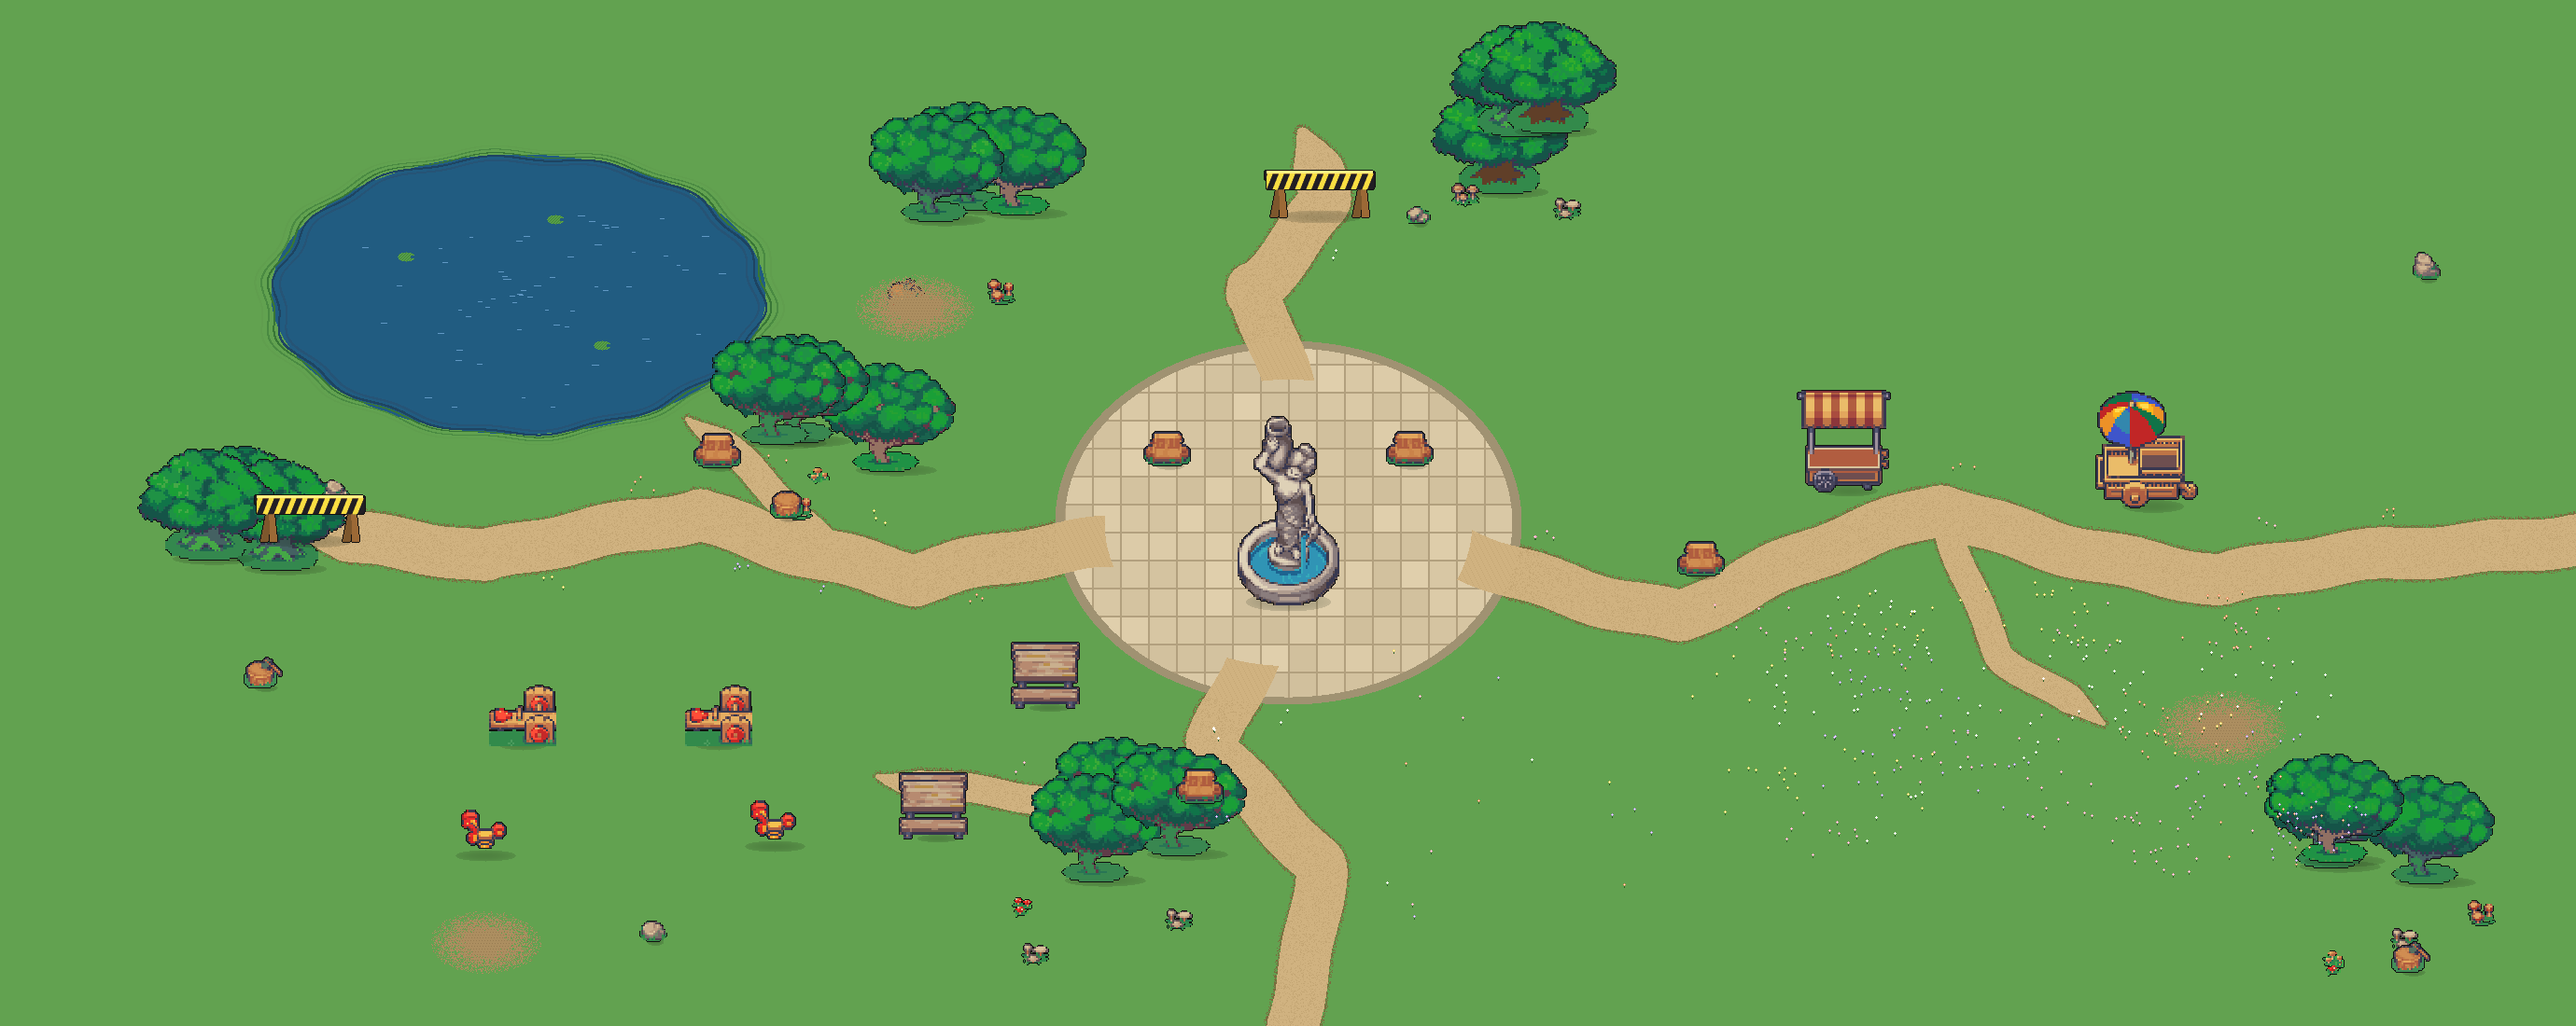
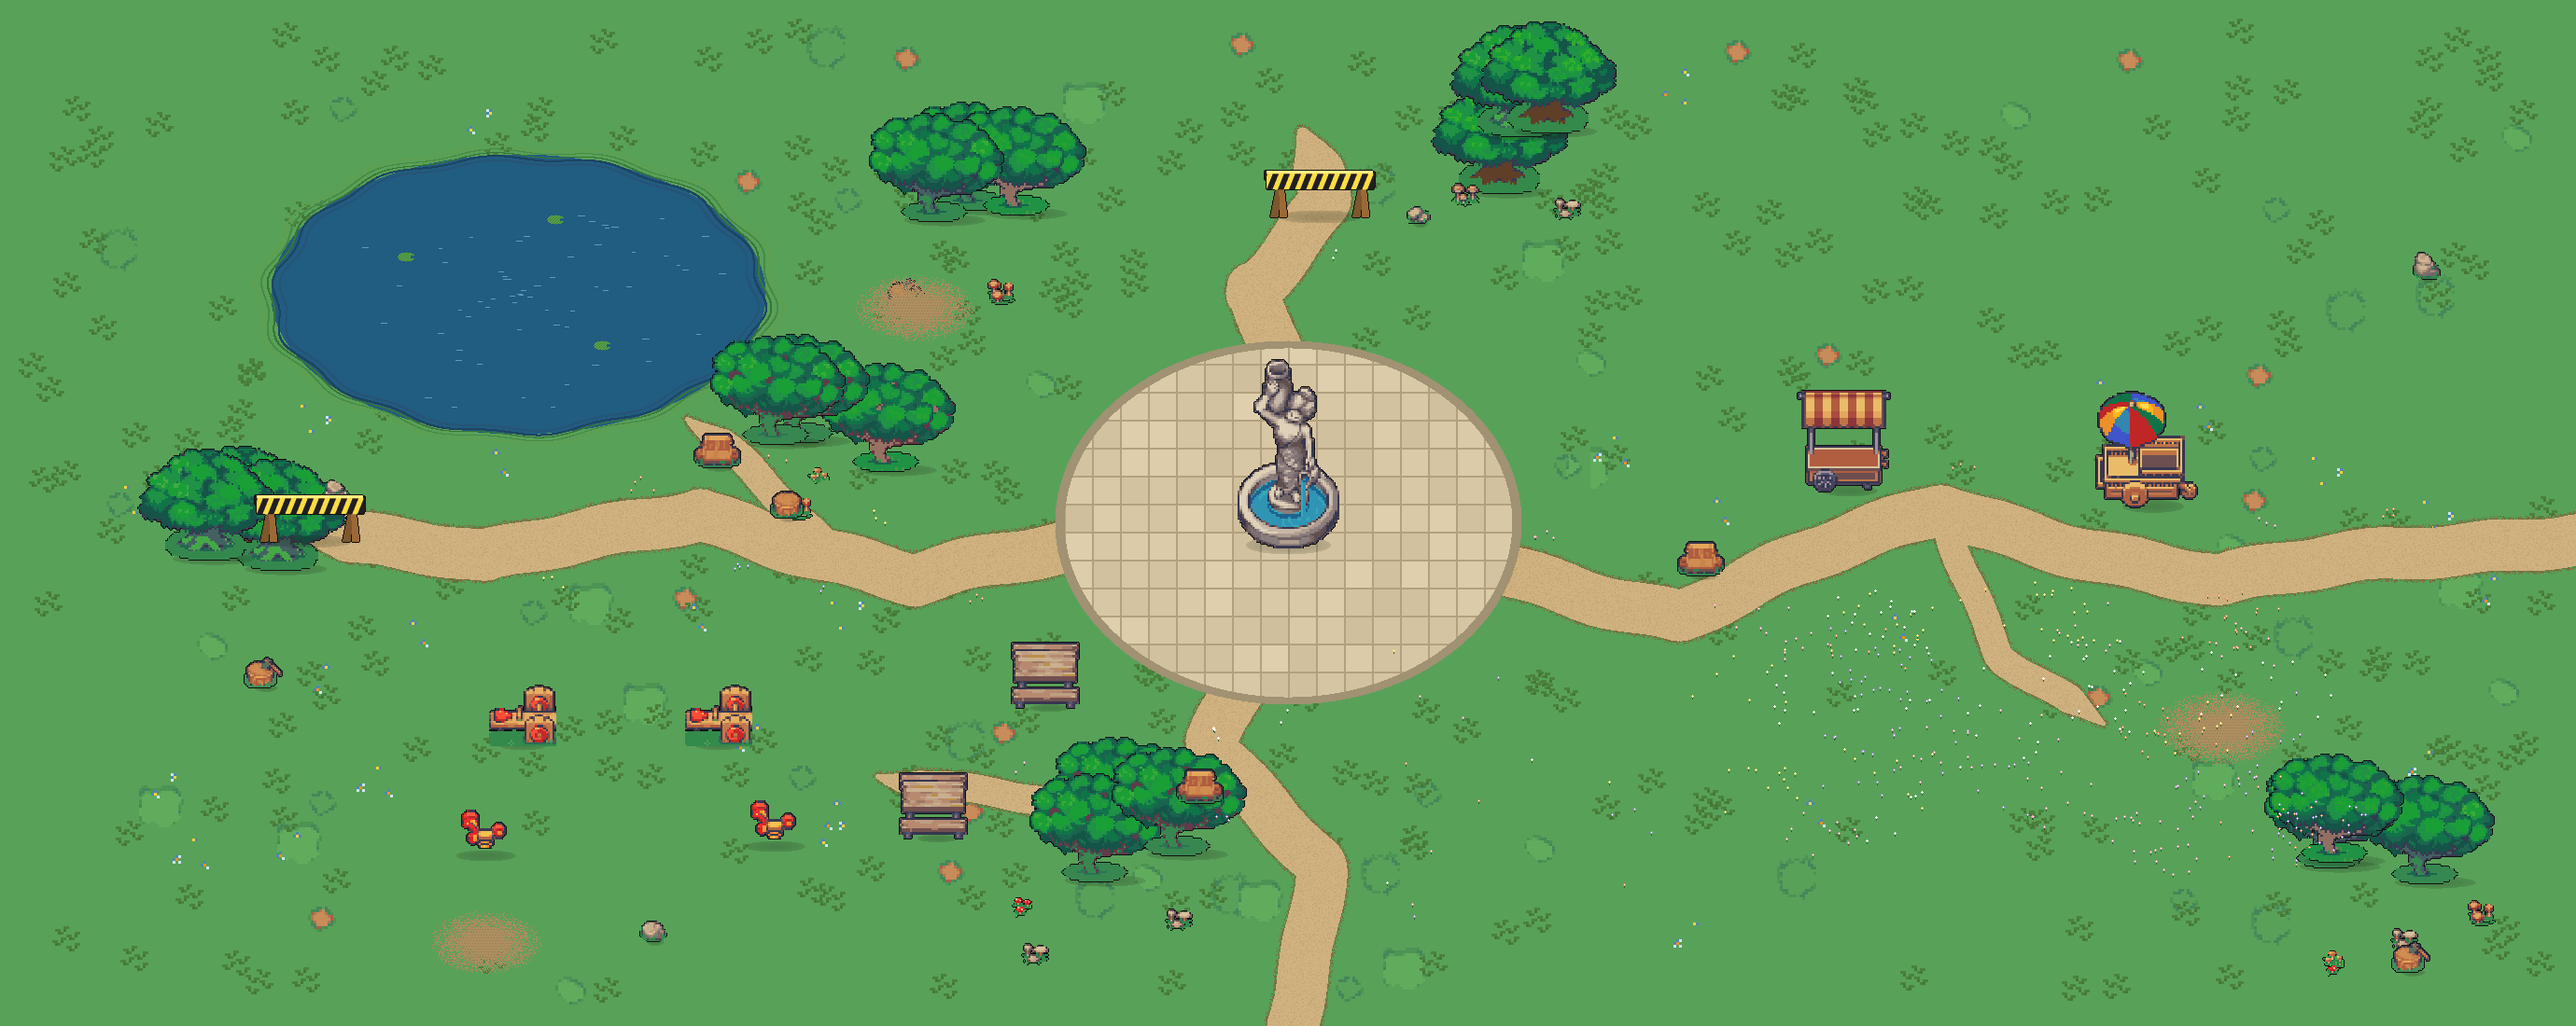
Park 2.0 round 8 (Trym notes): plaza overflows the roads (aprons cut), fountain basin centered, plaza stump-benches removed, lawn = flat clean base + green-tinted tufts + Props_Grass patches + lifted flower clusters (contact-sheet study: Grass_Wall family = hedge pieces, not lawn)

diff --git a/src/scripts/park-geo.js b/src/scripts/park-geo.js
@@ -5,12 +5,12 @@ export const BOUND = 96;
 export const PLAZA = { x: 1380, y: 560, rx: 250, ry: 195 };
 export const ROAD_W = 88;
 export const POND = { x: 555, y: 315, rx: 265, ry: 150 };
-export const FOUNTAIN = [1380, 651, 109, 218, 6];
+export const FOUNTAIN = [1380, 590, 109, 218, 6];
 export const MARKET = { stand: [1975, 528], cart: [2300, 545] };
 export const SWINGS = [[560, 800, 72, 72], [770, 800, 72, 72], [520, 920, 72, 72], [830, 910, 72, 72]];
 export const SIGNS = [[332, 584], [1414, 236]];
 export const MEADOW = [1860, 640, 2500, 940];
 export const DOORS = { south: { x: 1380, y: 1060 }, east: { x: 2700, y: 560 } };
-export const OB_RECTS = [[247, 562, 273, 598], [284, 576, 310, 612], [207, 565, 233, 601], [1029, 190, 1055, 226], [1078, 195, 1104, 231], [990, 202, 1016, 238], [1188, 871, 1214, 907], [1162, 910, 1188, 946], [1250, 882, 1276, 918], [1593, 172, 1619, 208], [1613, 111, 1639, 147], [1645, 107, 1671, 143], [2587, 912, 2613, 948], [2485, 895, 2511, 931], [2490, 889, 2516, 925], [938, 470, 964, 506], [846, 439, 872, 475], [820, 441, 846, 477], [1905, 482, 2045, 534], [2230, 499, 2370, 551], [508, 780, 612, 806], [718, 780, 822, 806], [1076, 730, 1164, 766], [956, 870, 1044, 906], [1216, 482, 1284, 504], [1476, 482, 1544, 504], [734, 484, 802, 506], [1788, 600, 1856, 622], [1251, 844, 1319, 866], [288, 566, 376, 588], [1370, 218, 1458, 240]];
-export const OB_CIRCLES = [[970, 332, 20], [843, 556, 20], [2583, 1043, 20], [282, 738, 20], [1380, 631, 39], [520, 920, 18], [830, 910, 18], [360, 540, 20], [2600, 300, 20], [1520, 240, 20], [700, 1010, 20]];
+export const OB_RECTS = [[247, 562, 273, 598], [284, 576, 310, 612], [207, 565, 233, 601], [1029, 190, 1055, 226], [1078, 195, 1104, 231], [990, 202, 1016, 238], [1188, 871, 1214, 907], [1162, 910, 1188, 946], [1250, 882, 1276, 918], [1593, 172, 1619, 208], [1613, 111, 1639, 147], [1645, 107, 1671, 143], [2587, 912, 2613, 948], [2485, 895, 2511, 931], [2490, 889, 2516, 925], [938, 470, 964, 506], [846, 439, 872, 475], [820, 441, 846, 477], [1905, 482, 2045, 534], [2230, 499, 2370, 551], [508, 780, 612, 806], [718, 780, 822, 806], [1076, 730, 1164, 766], [956, 870, 1044, 906], [734, 484, 802, 506], [1788, 600, 1856, 622], [1251, 844, 1319, 866], [288, 566, 376, 588], [1370, 218, 1458, 240]];
+export const OB_CIRCLES = [[970, 332, 20], [843, 556, 20], [2583, 1043, 20], [282, 738, 20], [1380, 570, 39], [520, 920, 18], [830, 910, 18], [360, 540, 20], [2600, 300, 20], [1520, 240, 20], [700, 1010, 20]];
 export const OVERLAYS = [['ov-0.png', 187, 478, 147, 120, 598], ['ov-1.png', 224, 492, 147, 120, 612], ['ov-2.png', 147, 481, 147, 120, 601], ['ov-3.png', 970, 109, 145, 117, 226], ['ov-4.png', 1019, 114, 145, 117, 231], ['ov-5.png', 931, 121, 145, 117, 238], ['ov-6.png', 1129, 790, 145, 117, 907], ['ov-7.png', 1103, 829, 145, 117, 946], ['ov-8.png', 1191, 801, 145, 117, 918], ['ov-9.png', 1533, 88, 147, 120, 208], ['ov-10.png', 1553, 27, 147, 120, 147], ['ov-11.png', 1585, 23, 147, 120, 143], ['ov-12.png', 2528, 831, 145, 117, 948], ['ov-13.png', 2426, 814, 145, 117, 931], ['ov-14.png', 2431, 808, 145, 117, 925], ['ov-15.png', 879, 389, 145, 117, 506], ['ov-16.png', 787, 358, 145, 117, 475], ['ov-17.png', 761, 360, 145, 117, 477], ['ov-18.png', 1925, 418, 101, 110, 528], ['ov-19.png', 2245, 419, 110, 126, 545], ['ov-20.png', 1083, 688, 74, 72, 760], ['ov-21.png', 963, 828, 74, 72, 900]];

diff --git a/tools/build-park-scene.py b/tools/build-park-scene.py
@@ -137,17 +137,109 @@ def scrubbed(tile):
     return t
 
 
+def tile_stats(t):
+    """(specks, edge, texture): red-speck count, top/bottom+left/right mean
+    drift (high = an autotile EDGE tile — those tiled into arch rows in round
+    4), and inner variance (the actual blade detail we WANT)."""
+    p = t.load()
+    specks = sum(1 for y in range(0, T, 2) for x in range(0, T, 2)
+                 if p[x, y][0] > p[x, y][1] + 8)
+    rm = lambda y: sum(p[x, y][1] for x in range(T)) / float(T)
+    cm = lambda x: sum(p[x, y][1] for y in range(T)) / float(T)
+    edge = abs(rm(2) - rm(T - 3)) + abs(cm(2) - cm(T - 3))
+    vals = [p[x, y][1] for y in range(0, T, 3) for x in range(0, T, 3)]
+    mean = sum(vals) / float(len(vals))
+    tex = sum((v - mean) ** 2 for v in vals) / float(len(vals))
+    return specks, edge, tex
+
+
 if HAVE_PACK:
-    base = most_uniform(['ME_Singles_Terrains_and_Fences_48x48_Grass_1_%d.png' % i
-                         for i in range(1, 23)])
-    GRASS_T = scrubbed(base)
+    # ⚠ contact-sheet study (round 8): the pack's REAL lawn texture is the
+    # Grass_Wall_1 family — dense leafy blades, zero debris. The Grass_1..4
+    # families are grass-vs-dirt AUTOTILES whose only full-grass members are
+    # the flat fills that read "very simple" (Trym). Flowered variants of the
+    # same texture become sparse accents.
+    def fam_tiles(fam, hi):
+        out = []
+        for i in range(1, hi):
+            try:                                       # GARDEN singles, not
+                t = load_pack('ME_Singles_Garden_48x48_%s_%d.png' % (fam, i)).convert('RGBA')
+            except Exception:                          # Terrains_and_Fences
+                continue
+            if t.size == (T, T):
+                sp, ed, tx = tile_stats(t)
+                out.append((ed, t))
+        return out
+
+    # ⚠ the Grass_Wall/Flowered families are ALL hedge-wall pieces (shadow
+    # columns, burrow holes — they striped then polka-dotted the lawn). The
+    # pack's OWN scenes build lawns as flat base + scattered life, so: flat
+    # clean base + Grass_Tufts + Props_Grass patches + lifted flower pixels.
+    cand = []
+    for fam, hi in (('Grass_1', 23), ('Grass_2', 22), ('Grass_3', 22)):
+        for i in range(1, hi):
+            try:
+                t = load_pack('ME_Singles_Terrains_and_Fences_48x48_%s_%d.png' % (fam, i)).convert('RGBA')
+            except Exception:
+                continue
+            if t.size != (T, T):
+                continue
+            sp, ed, tx = tile_stats(t)
+            if sp <= 4 and ed < 10:
+                cand.append((tx, t))
+    cand.sort(key=lambda c: -c[0])
+    GRASSES = [scrubbed(t) for _, t in cand[:3]] or [Image.new('RGBA', (T, T), (86, 152, 74, 255))]
+    FLOWER_STAMPS = []
+    for ed, t in fam_tiles('Grass_Wall_1_Flowered', 15):
+        p = t.load()
+        st = [(x, y, p[x, y]) for y in range(T) for x in range(T)
+              if p[x, y][3] and sum(p[x, y][:3]) > 330
+              and not (p[x, y][1] > p[x, y][0] and p[x, y][1] > p[x, y][2])]
+        if 6 < len(st) < 260:
+            FLOWER_STAMPS.append(st)
+    print('grass: %d flat base, %d flower stamps' % (len(GRASSES), len(FLOWER_STAMPS)))
     WATER_T = most_uniform(['ME_Singles_Terrains_and_Fences_48x48_Deep_Water_1_%d.png' % i
                             for i in range(1, 20)])
     grng = random.Random(7)
     for r in range(0, H // T + 1):
         for c in range(0, W // T + 1):
-            t = GRASS_T if grng.random() < 0.5 else GRASS_T.transpose(Image.FLIP_LEFT_RIGHT)
+            t = GRASSES[grng.randrange(len(GRASSES))]
+            if grng.random() < 0.5:
+                t = t.transpose(Image.FLIP_LEFT_RIGHT)
             im.alpha_composite(t, (c * T, r * T))
+    # the LIFE pass, all off the tile grid so nothing reads as a pattern:
+    # tufts everywhere, soft green patches, loose flower clusters
+    try:
+        TUFT = load_pack('ME_Singles_Graveyard_48x48_Grass_Tufts.png').convert('RGBA')
+        tp = TUFT.load()          # graveyard tufts are dead-grey — retint to
+        for y in range(TUFT.height):                    # lawn greens by luma
+            for x in range(TUFT.width):
+                r0, g0, b0, a0 = tp[x, y]
+                if a0:
+                    k = (0.3 * r0 + 0.6 * g0 + 0.1 * b0) / 120.0
+                    tp[x, y] = (int(min(255, 62 * k)), int(min(255, 128 * k)),
+                                int(min(255, 56 * k)), a0)
+    except Exception:
+        TUFT = None
+    PATCHES = []
+    for i in (1, 2, 3, 8, 9):      # green patches ONLY — 12/13 are orange
+        try:
+            PATCHES.append(load_pack('ME_Singles_Terrains_and_Fences_48x48_Props_Grass_%d.png' % i).convert('RGBA'))
+        except Exception:
+            pass
+    for _ in range(70):
+        if not PATCHES:
+            break
+        pt = PATCHES[grng.randrange(len(PATCHES))]
+        im.alpha_composite(pt, (grng.randrange(20, W - 60), grng.randrange(20, H - 60)))
+    if TUFT:
+        for _ in range(340):
+            t2 = TUFT.transpose(Image.FLIP_LEFT_RIGHT) if grng.random() < 0.5 else TUFT
+            im.alpha_composite(t2, (grng.randrange(10, W - 58), grng.randrange(10, H - 58)))
+    for _ in range(34):
+        ox, oy = grng.randrange(60, W - 100), grng.randrange(60, H - 100)
+        for x, y, col in FLOWER_STAMPS[grng.randrange(len(FLOWER_STAMPS))] if FLOWER_STAMPS else []:
+            put(ox + x, oy + y, col)
 else:
     rect(0, 0, W, H, (86, 152, 74))
 
@@ -285,15 +377,10 @@ for y in range(CY - PLAZA_RY, CY + PLAZA_RY):
             j = frng.randrange(-8, 9)
             flag_tone[fk] = (PAVE[0] + j, PAVE[1] + j, PAVE[2] + j)
         put(x, y, PAVE_J if (x % 30 < 2 or y % 30 < 2) else flag_tone[fk])
-# entry aprons: wherever a lane's mask reaches into the plaza's outer band,
-# re-paint it road-coloured so each path flows into the circle at ITS OWN
-# angle (the old compass aprons assumed dead-straight roads)
-for y in range(CY - PLAZA_RY, CY + PLAZA_RY):
-    row = y * W
-    for x in range(CX - PLAZA_RX, CX + PLAZA_RX):
-        d = ((x - CX) / float(PLAZA_RX)) ** 2 + ((y - CY) / float(PLAZA_RY)) ** 2
-        if 0.62 <= d <= 1.0 and _road_mask[row + x] >= 5:
-            put(x, y, ROAD_S if (x * 7 + y * 13) % 11 == 0 else ROAD)
+# ⚠ NO entry aprons: the circle OVERFLOWS the roads (Trym round 8 — the
+# apron re-paint made lanes "stop weird in the middle of the circle"). Lanes
+# start inside the ellipse and the plaza, painted after road_bake, buries
+# them; each path now dies cleanly at the rim.
 
 # ---- the object layer -----------------------------------------------------
 _cache = {}
@@ -486,7 +573,9 @@ if HAVE_PACK:
         strip = strip.resize((sw * n, int(sheet.height * PROP)), Image.NEAREST)
         strip.save(os.path.join(OUT, 'a-fountain.png'), optimize=True)
         f0 = strip.crop((0, 0, sw, strip.height))
-        fx, fbase = CX, CY + int(strip.height * 0.42)
+        # base at CY + ~14% of height puts the BASIN's centre on the plaza's
+        # centre (0.42 hung the whole statue low — Trym round 8)
+        fx, fbase = CX, CY + int(strip.height * 0.14)
         shadow(fx, fbase - 6, sw * 0.42, 10)
         im.alpha_composite(f0, (fx - sw // 2, fbase - strip.height))
         COLLIDERS.append(('fountain', ('circle', int(sw * 0.36)), fx, fbase - 20))
@@ -605,10 +694,9 @@ for i in range(0, len(ROAD_SPINE), 120):
 # fragments). Re-add only after a real contact-sheet study of the file.
 if HAVE_PACK:
     # benches live at the bends — a seat wherever the path turns and the view
-    # changes (plaza pair + west bend over the pond spur + east-road dip +
-    # south bend by the playground spur)
-    for bx, by, fl in ((CX - 130, CY - 60, False), (CX + 130, CY - 60, True),
-                       (768, 502, False), (1822, 618, True), (1285, 862, False)):
+    # changes. ⚠ NONE inside the plaza: the log benches read as tree stumps
+    # on the pavement (Trym round 8).
+    for bx, by, fl in ((768, 502, False), (1822, 618, True), (1285, 862, False)):
         try_place(['ME_Singles_Camping_48x48_Cut_Wood_Bench_1.png',
                    'ME_Singles_Camping_48x48_Cut_Wood_Bench_2.png'],
                   bx, by, flip=fl, solid=BENCH_BOX)
